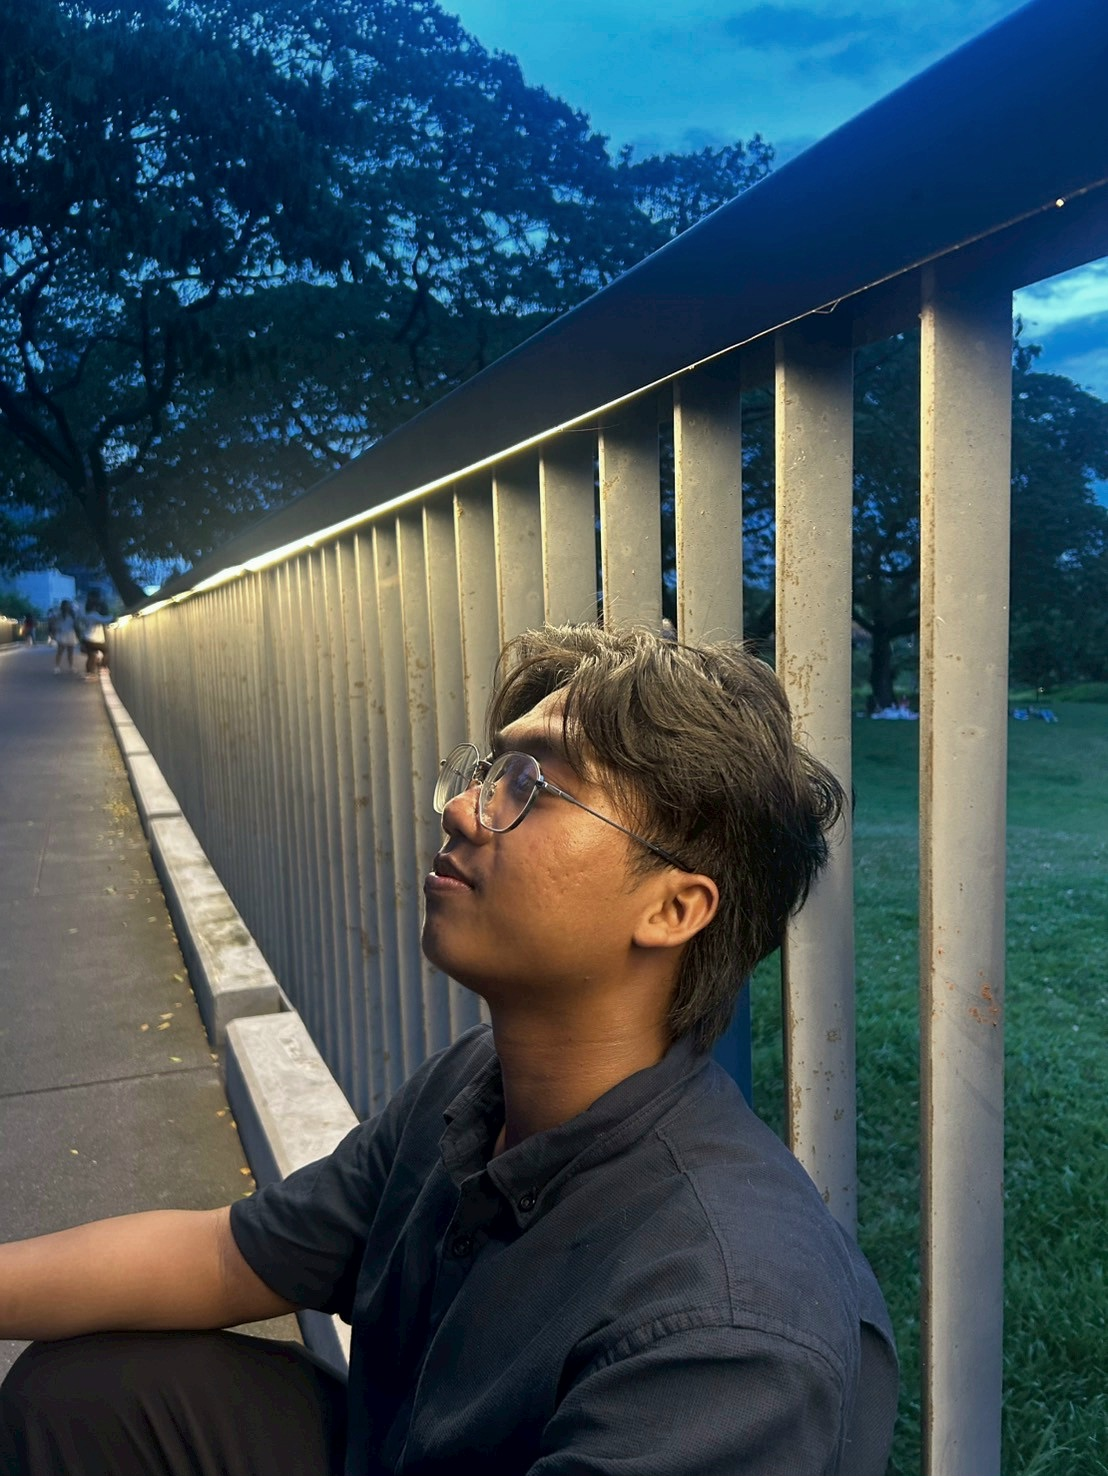
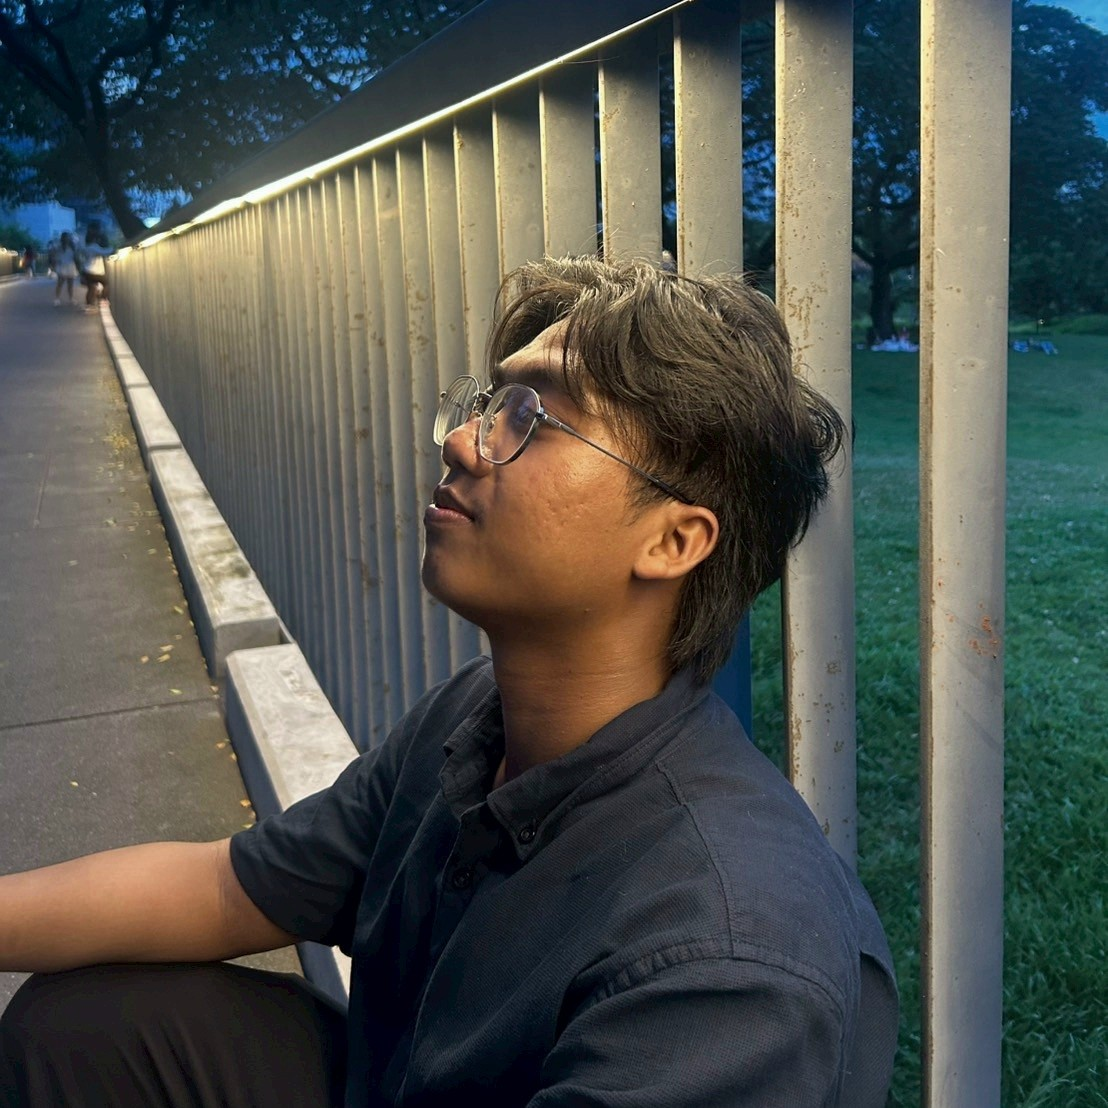
fixes

diff --git a/frontend_react/src/components/Navbar/Navbar.scss b/frontend_react/src/components/Navbar/Navbar.scss
@@ -13,21 +13,44 @@
     z-index: 2;
 }
 
-.app__navbar-logo{
-    display: flex;
-    justify-content: flex-start;
-    align-items: center;
+// .app__navbar-logo{
+//     display: flex;
+//     justify-content: flex-start;
+//     align-items: center;
 
-    img{
-        width: 70px;
-        height: 20px;
+//     img{
+//         width: 70px;
+//         height: 20px;
 
-        @media screen and (min-width: 2000px){
-            width: 180px;
-            height: 40px;
-        }
+//         @media screen and (min-width: 2000px){
+//             width: 180px;
+//             height: 40px;
+//         }
+//     }
+// }
+
+.app__navbar-logo {
+  display: flex;
+  justify-content: flex-start;
+  align-items: center;
+
+  .logo1 {
+    width: 70px;
+    height: 20px;
+
+    @media screen and (min-width: 2000px) {
+      width: 180px;
+      height: 40px;
     }
+  }
+
+  .logo2 {
+    width: auto;    // or any size you want
+    height: 30px;   // different height to keep aspect ratio
+    margin-left: 10px;  // add spacing between logos
+  }
 }
+
 
 .app__navbar-links{
     flex: 1;

diff --git a/frontend_react/src/components/Navbar/Navbar.jsx b/frontend_react/src/components/Navbar/Navbar.jsx
@@ -9,8 +9,8 @@ const Navbar = () => {
   return (
     <nav className='app__navbar'>
         <div className='app__navbar-logo'>
-            <img src={images.logo} alt="logo" />
-            <img src={images.pnglogo} alt="secondlogo" />
+            <img className='logo1' src={images.logo} alt="logo" />
+            <img className='logo2' src={images.pnglogo} alt="secondlogo" />
         </div>
         <ul className='app__navbar-links'>
             {['home', 'about', 'work', 'skills', 'contact'].map((item) =>(

diff --git a/frontend_react/src/container/Header/Header.jsx b/frontend_react/src/container/Header/Header.jsx
@@ -42,13 +42,13 @@ const Header = () => (
       className="app__header-img"
     >
       <img src={images.profile} alt="profile_bg" />
-      <motion.img
+      {/* <motion.img
         whileInView={{ scale: [0, 1] }}
         transition={{ duration: 1, ease: 'easeInOut' }}
         src={images.circle}
         alt="profile_circle"
         className="overlay_circle"
-      />
+      /> */}
     </motion.div>
 
     <motion.div

diff --git a/frontend_react/src/container/Header/Header.scss b/frontend_react/src/container/Header/Header.scss
@@ -177,7 +177,9 @@
   img {
     width: 100%;
     object-fit: contain;
+    border-radius: 50%; // <-- add this to make circle
     z-index: 1;
+    transform: translateY(-24px);
   }
 
   .overlay_circle {
